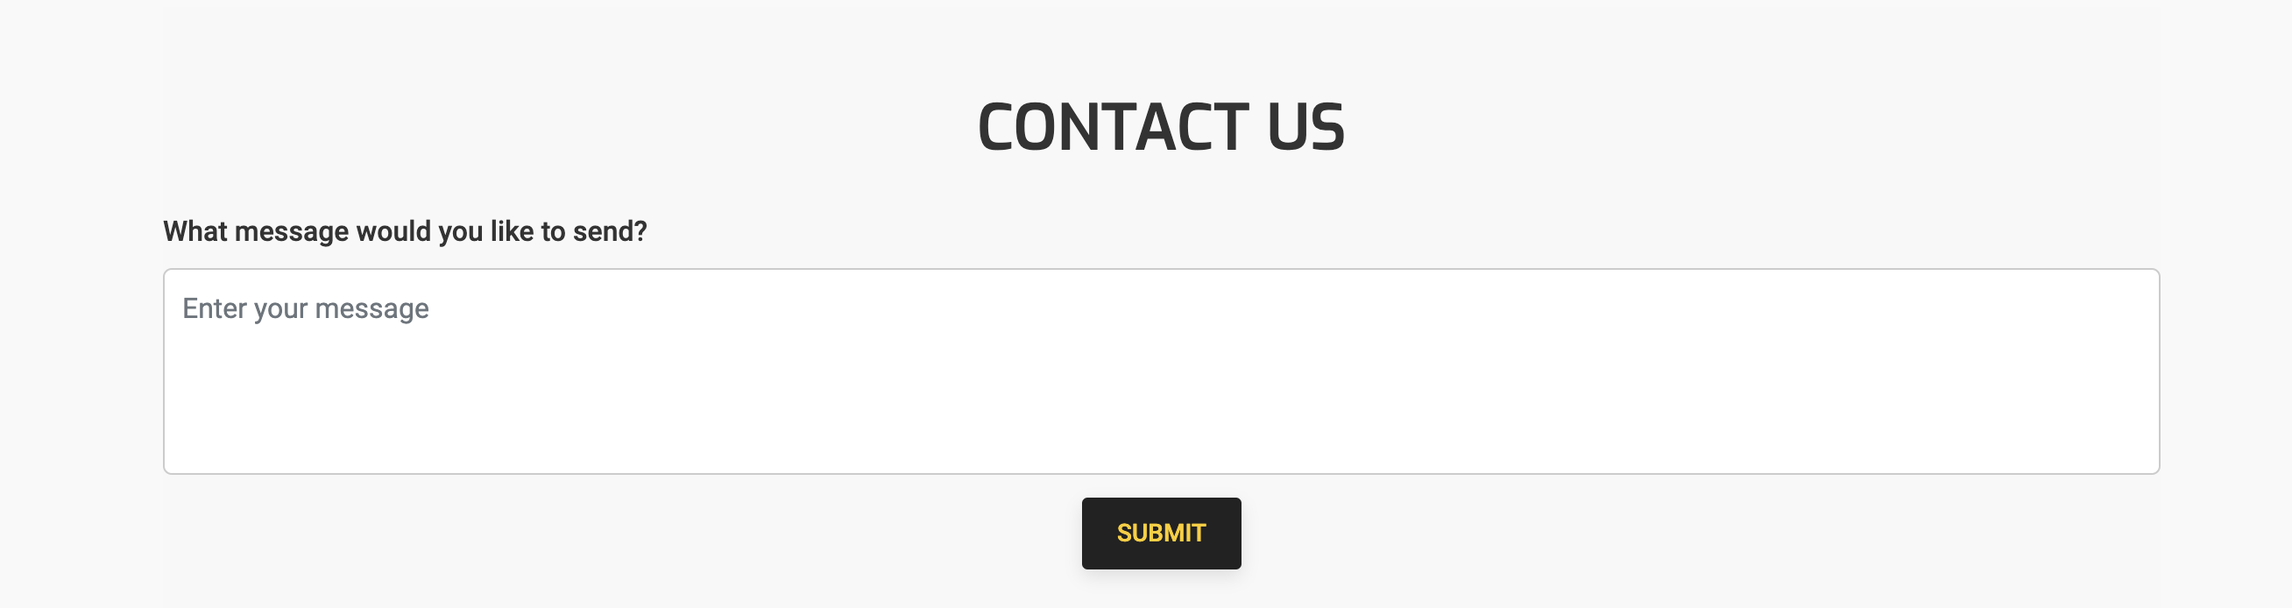
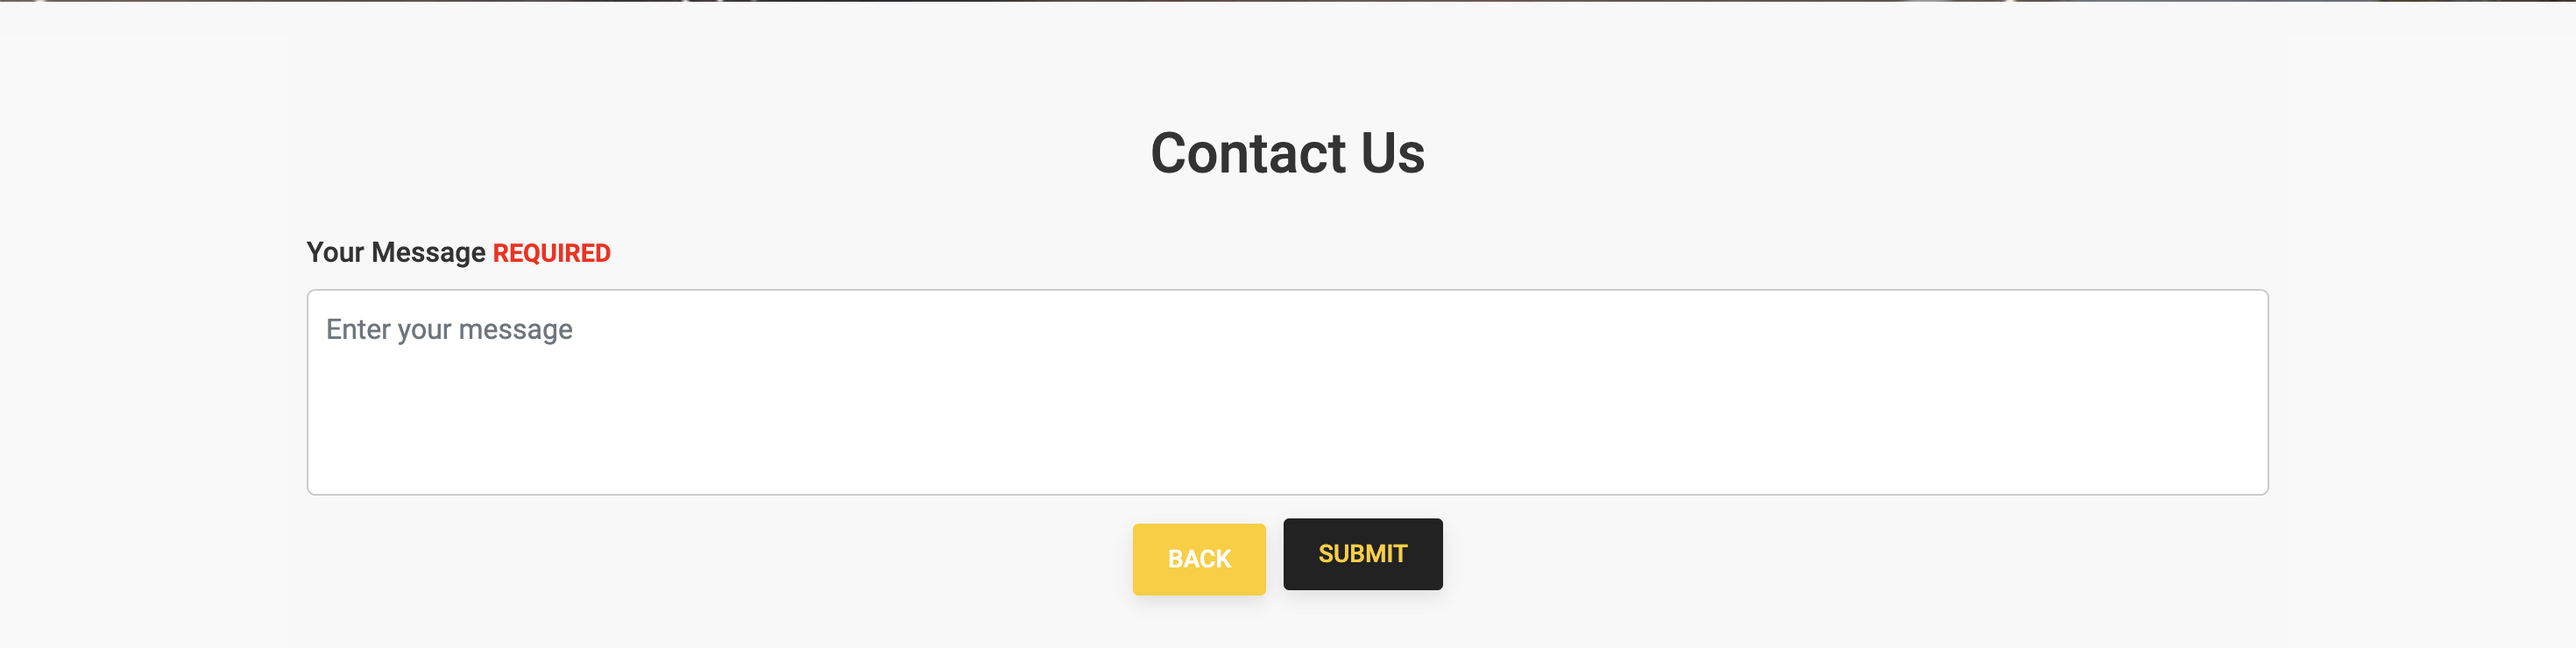
added the new booking form section, amended contact and future features section; added new external lonks; changed the images from images folder and updated contact.html with a better thank you message

diff --git a/contact.html b/contact.html
@@ -267,7 +267,9 @@
                         </button>
                     </div>
                     <div class="modal-body">
-                        📨 Your message has been received! We’ll get back to you as soon as possible. Thank you for choosing Deluxe Transportation! 🚗✨
+                        <p>Woohoo! 🎉 Your message just zoomed through the internet, 🚀 and we’ve received it safe and sound! 📨</p>
+                        <p>Our amazing team of transport wizards 🧙♂🧙♀ will be back to you faster than you can say “Where’s my limo?” 🚗💨</p>
+                        <p>In the meantime, take a deep breath 😌, sip some coffee ☕, and dream of your next smooth ride with us. We'll be in touch shortly!</p>
                     </div>
                     <div class="modal-footer">
                         <button type="button" class="btn btn-secondary" data-dismiss="modal" onclick="location.reload()">Close</button>

diff --git a/README.md b/README.md
@@ -171,15 +171,25 @@ You can view the wireframes here:
 1. **Hero Section**:
     - The homepage features a large hero section with a background video and fallback image for unsupported devices.
     - The hero text and button fade in with smooth animations, drawing attention to the call-to-action.
-    - A prominent "Book Now" button leads users to the **Contact** page.
+    - A prominent "Book Now" button leads users to the **Book Your Ride** popup.
     ![Hero Section](assets/images/hero.png)
 
-2. **Services Section**:
+2. **Book Your Ride**
+    - The **"Book Now"** button is featured prominently in the hero section of all pages, leading users to the interactive **Book Your Ride** form. This modal-based form allows users to book a ride seamlessly across five guided steps.
+    ![Book Your Rider Form](assets/images/bookride1.png)
+    - The form walks users through essential booking details, including name, contact information, pickup/drop-off locations, and ride preferences (date, time, and vehicle type). Each step is intuitive, with "Next" and "Back" buttons for easy navigation and review.
+    ![Book Your Rider Form](assets/images/bookride2.png)
+    - Real-time validation ensures that all required fields are completed correctly, preventing errors and missing information in the booking process.
+    - Upon form submission, users receive a confirmation modal ("Booking Received"), which assures them that their ride has been successfully booked and they will receive further details via email.
+    ![Booking Received](assets/images/bookingreceived.png)
+    - The "Book Now" button and the booking form are available across the site without disrupting the page layout, providing a smooth and user-friendly booking experience.
+
+3. **Services Section**:
     - A detailed overview of the services offered, accompanied by icons and short descriptions.
     - Each service is presented in a card format, and the layout adjusts to fit any screen size.
     ![Services Section](assets/images/services-content.png)
 
-3. **Client Testimonials**:
+4. **Client Testimonials**:
     - A testimonials section on the homepage provides customer feedback to build trust and credibility.
     - Testimonials are displayed using cards, and animations ensure they fade in as users scroll down the page.
     ![Client Testimonials](assets/images/testimonials.png)
@@ -204,10 +214,13 @@ You can view the wireframes here:
 1. **Multi-Step Contact Form**:
     - The **Contact** page includes a modern, multi-step form where users can input their name, email, phone (optional), and message.
     - The form uses client-side validation for required fields and provides instant feedback if any information is missing.
-    ![Contact Form](assets/images/contact-content.png)
-
     - Write To Us, option for postal communications.
-    ![Contact Form](assets/images/writetous.png)
+    ![Contact Form](assets/images/contact-content.png)
+    - The form is divided into easy-to-follow steps, ensuring a smooth and organized user experience. Each step allows users to focus on one set of information at a time, enhancing clarity and reducing form abandonment.
+    - The form is equipped with "Next" and "Back" buttons, enabling users to navigate through the steps effortlessly, without losing the data they've entered.
+    - Upon submission, users are greeted with a confirmation modal ("Thanks for Reaching Out!") that reassures them their message has been received and the team will get back to them shortly.
+    ![Thank You Message](assets/images/thankyou.png)
+    - The contact form's multi-step approach makes it user-friendly, and the validation ensures that necessary details like name, email, and message are properly filled before submission.
 
 ---
 #### FOOTER
@@ -252,8 +265,8 @@ You can view the wireframes here:
 ### FUTURE FEATURES
 
 1. **Online Booking Form**:
-    - An online booking form will allow users to directly schedule services through the website.
-    - Users will be able to select their preferred date and time, along with the service they need.
+    - An online booking form with a location lookup feature also current location (locate me) as a suggestion option.
+    - Error messages pop up when the user misses any tab or keeps it not filled.
 
 2. **Expanded Testimonials Section**:
     - A rotating carousel feature will be added to the testimonials section, displaying more customer reviews in an engaging format.
@@ -563,6 +576,13 @@ This will open the website in your browser for local viewing and testing.
     - **Contact Image**: [Google Photos](https://www.google.com/search?q=get%20in%20touch&udm=2&tbs=rimg:CSjzhLS2JFOaYXM3cgSjCqu1sgIAwAIA2AIA4AIA&hl=en&sa=X&ved=0CBoQuIIBahcKEwjQlv6005mIAxUAAAAAHQAAAAAQCQ#vhid=oFEqwsXaf7Ax-M&vssid=mosaic)
     - **Videos**: [ShutterStock](https://www.shutterstock.com/video/clip-16780849-4k-big-airplane-landing-dusk)
 - **Logo**: The logo was purchased and owned by the project owner.
+- **Footer Icon Links**: The footer contains prominent social media links for easy access:
+  - **Facebook**: [https://www.facebook.com/](https://www.facebook.com/)
+  - **Instagram**: [https://www.instagram.com/](https://www.instagram.com/)
+  - **LinkedIn**: [https://www.linkedin.com/](https://www.linkedin.com/)
+  - **YouTube**: [https://www.youtube.com/](https://www.youtube.com/)
+  - **WhatsApp**: [https://www.whatsapp.com/](https://www.whatsapp.com/)
+  - **Twitter (X)**: [https://www.x.com/](https://www.x.com/)
 
 ---
 ### CODE
